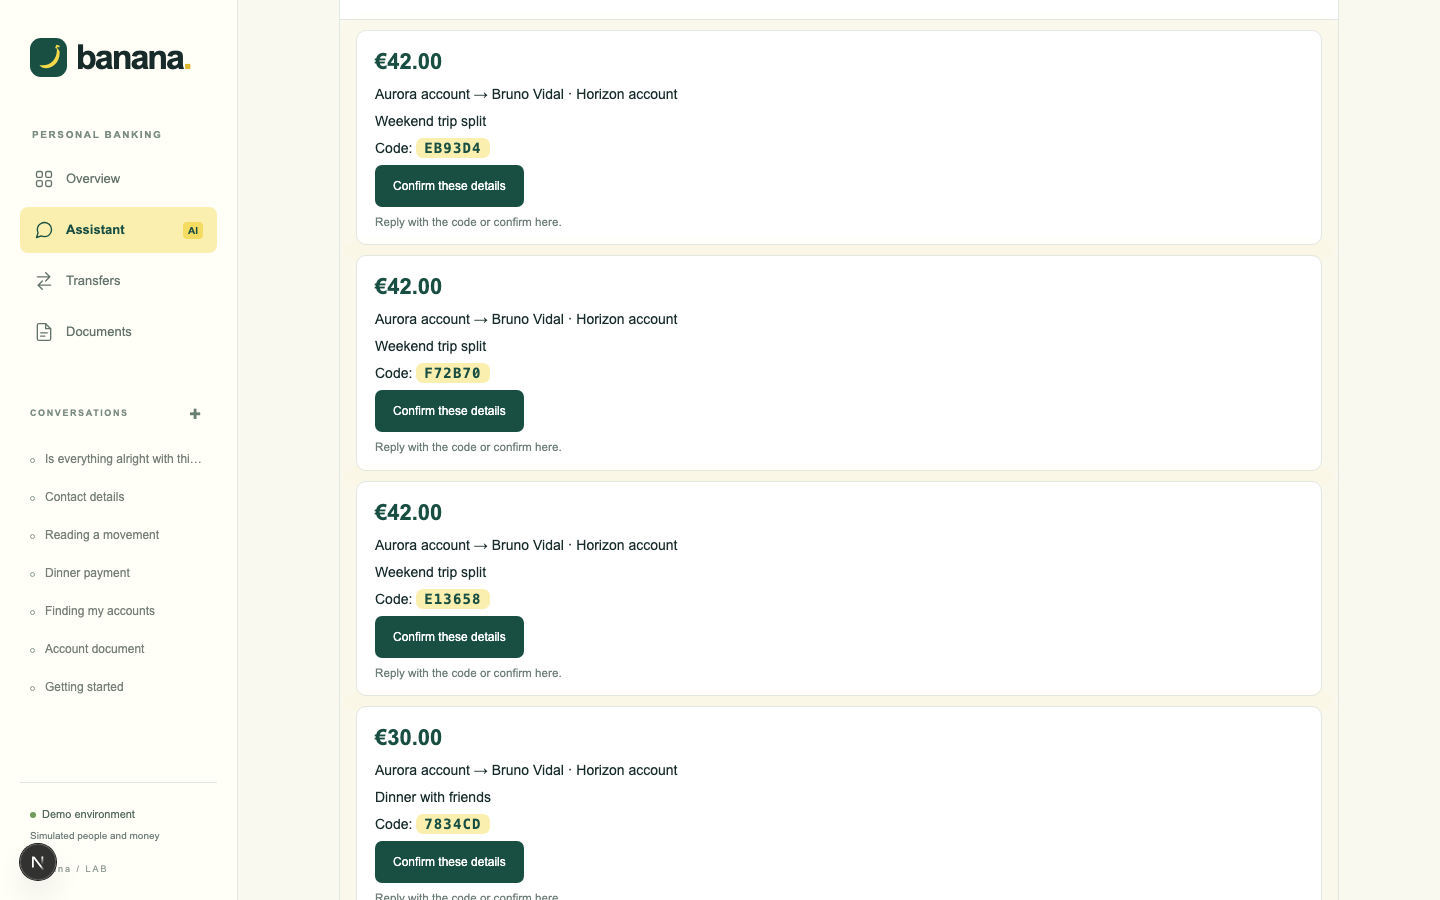
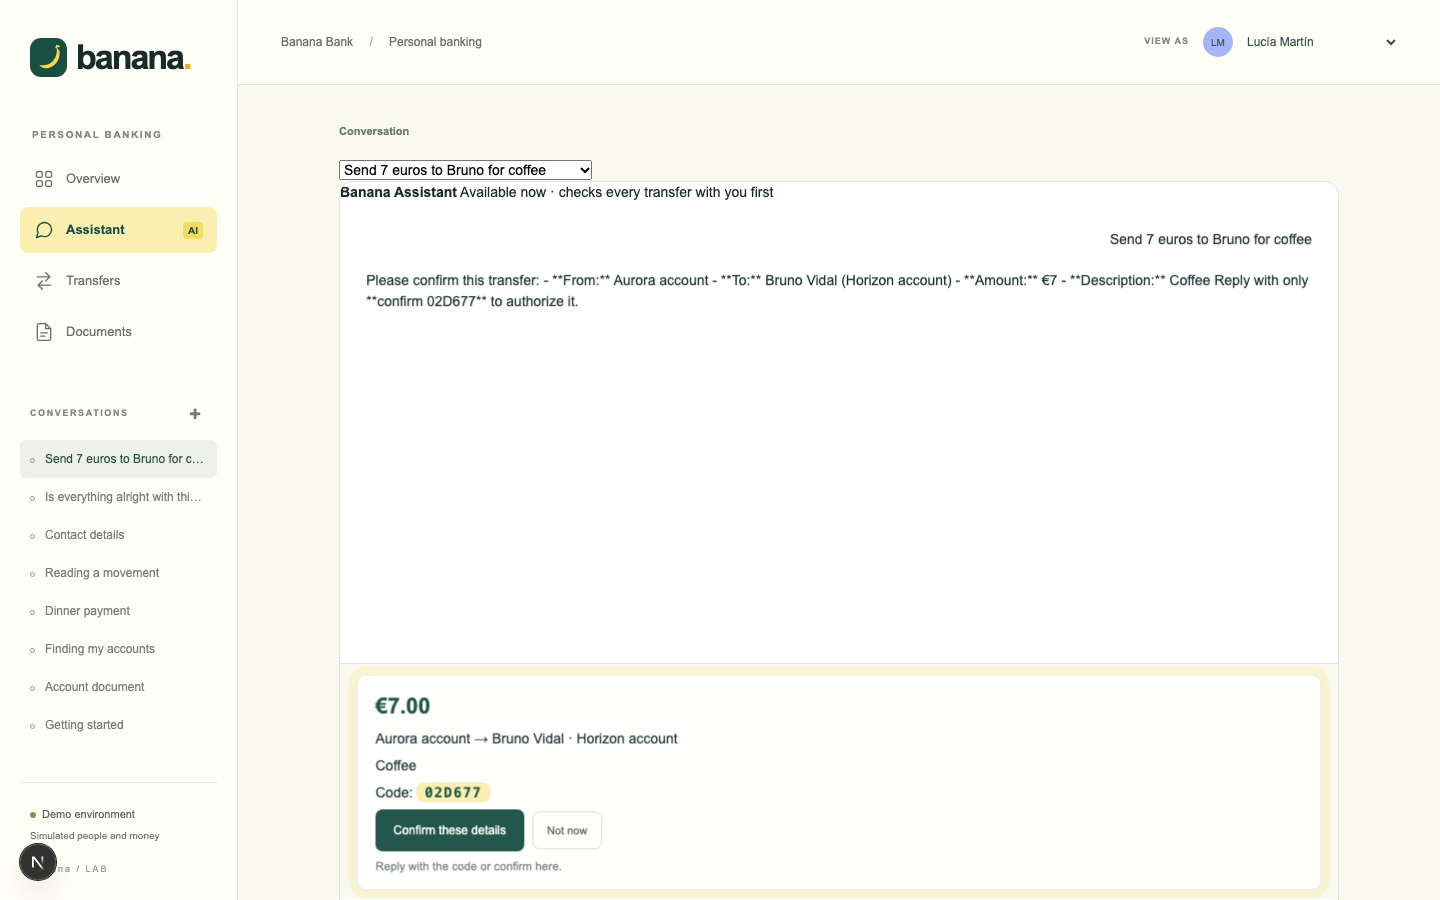
Approvals: dismiss a proposal; in-chat cards scoped to the conversation

diff --git a/app/components/ChatTab.tsx b/app/components/ChatTab.tsx
@@ -1,4 +1,4 @@
-import type { RefObject } from 'react';
+import { useState, type RefObject } from 'react';
 import type { AnyRecord } from '../lib/api';
 import { money } from '../lib/format';
 import BananaMark from './BananaMark';
@@ -17,6 +17,7 @@ export default function ChatTab({
   accountLabel,
   contactLabel,
   onConfirm,
+  onDismiss,
   conversations,
   conversationId,
   messages,
@@ -34,6 +35,7 @@ export default function ChatTab({
   accountLabel: (id: string) => string;
   contactLabel: (id: string) => string;
   onConfirm: (id: string) => void;
+  onDismiss: (id: string) => void;
   conversations: AnyRecord[];
   conversationId: string | null;
   messages: AnyRecord[];
@@ -45,6 +47,12 @@ export default function ChatTab({
   onSend: (t: string) => void;
   onText: (v: string) => void;
 }) {
+  const [leaving, setLeaving] = useState<string | null>(null);
+  const scoped = approvals?.filter((a) => a.conversationId === conversationId) ?? [];
+  const dismiss = (id: string) => {
+    setLeaving(id);
+    setTimeout(() => onDismiss(id), 160);
+  };
   return (
     <div className="chat-layout">
       <div className="conversation-picker">
@@ -111,10 +119,10 @@ export default function ChatTab({
             </>
           )}
         </div>
-        {(approvals?.length > 0 || pendingOperations?.length > 0) && (
+        {(scoped.length > 0 || pendingOperations?.length > 0) && (
           <div className="chat-proposals">
-            {approvals?.map((a) => (
-              <div className="proposal-card" key={a.id}>
+            {scoped.map((a) => (
+              <div className={`proposal-card${leaving === a.id ? ' leaving' : ''}`} key={a.id}>
                 <strong className="proposal-amount">{money(a.payload.amountCents)}</strong>
                 <span>
                   {accountLabel(a.payload.fromAccountId)} → {contactLabel(a.payload.toAccountId)}
@@ -123,9 +131,22 @@ export default function ChatTab({
                 <span>
                   Code: <code className="confirmation-code">{a.confirmationCode}</code>
                 </span>
-                <button className="primary-button" disabled={busy} onClick={() => onConfirm(a.id)}>
-                  <span className="button-content">Confirm these details</span>
-                </button>
+                <div className="proposal-actions">
+                  <button
+                    className="primary-button"
+                    disabled={busy}
+                    onClick={() => onConfirm(a.id)}
+                  >
+                    <span className="button-content">Confirm these details</span>
+                  </button>
+                  <button
+                    className="secondary-button"
+                    disabled={busy}
+                    onClick={() => dismiss(a.id)}
+                  >
+                    Not now
+                  </button>
+                </div>
                 <small>Reply with the code or confirm here.</small>
               </div>
             ))}

diff --git a/app/components/ApprovalsPanel.tsx b/app/components/ApprovalsPanel.tsx
@@ -1,3 +1,4 @@
+import { useState } from 'react';
 import type { AnyRecord } from '../lib/api';
 import { money } from '../lib/format';
 
@@ -6,19 +7,31 @@ export default function ApprovalsPanel({
   accountLabel,
   contactLabel,
   onConfirm,
+  onDismiss,
   busy,
 }: {
   approvals: AnyRecord[];
   accountLabel: (id: string) => string;
   contactLabel: (id: string) => string;
   onConfirm: (id: string) => void;
+  onDismiss: (id: string) => void;
   busy?: boolean;
 }) {
+  const [expanded, setExpanded] = useState(false);
+  const [leaving, setLeaving] = useState<string | null>(null);
+  const sorted = [...approvals].sort((x, y) =>
+    String(y.createdAt ?? '').localeCompare(String(x.createdAt ?? '')),
+  );
+  const visible = expanded ? sorted : sorted.slice(0, 2);
+  const dismiss = (id: string) => {
+    setLeaving(id);
+    setTimeout(() => onDismiss(id), 160);
+  };
   return (
     <section className="panel approvals">
       <h2>Proposals awaiting confirmation</h2>
-      {approvals.map((a: AnyRecord) => (
-        <div key={a.id}>
+      {visible.map((a: AnyRecord) => (
+        <div key={a.id} className={leaving === a.id ? 'leaving' : undefined}>
           <p>
             <strong>{money(a.payload.amountCents)}</strong> ·{' '}
             {accountLabel(a.payload.fromAccountId)} → {contactLabel(a.payload.toAccountId)}
@@ -27,11 +40,21 @@ export default function ApprovalsPanel({
             {a.payload.concept} · Code:{' '}
             <code className="confirmation-code">{a.confirmationCode}</code>
           </p>
-          <button className="primary-button" disabled={busy} onClick={() => onConfirm(a.id)}>
-            <span className="button-content">Confirm these details</span>
-          </button>
+          <div className="proposal-actions">
+            <button className="primary-button" disabled={busy} onClick={() => onConfirm(a.id)}>
+              <span className="button-content">Confirm these details</span>
+            </button>
+            <button className="secondary-button" disabled={busy} onClick={() => dismiss(a.id)}>
+              Not now
+            </button>
+          </div>
         </div>
       ))}
+      {sorted.length > 2 && (
+        <button className="text-button" onClick={() => setExpanded(!expanded)}>
+          {expanded ? 'Show less' : `Show ${sorted.length - 2} more`}
+        </button>
+      )}
     </section>
   );
 }

diff --git a/tests/approvals.test.ts b/tests/approvals.test.ts
@@ -12,7 +12,8 @@ process.env.BANK_PORT = '4102';
 process.env.BANK_URL = 'http://127.0.0.1:4102';
 const { transferMoney } = await import('../src/banking/actions');
 const { resolveIntent } = await import('../src/banking/resolve');
-const { authorizeTransfer, confirmationCode } = await import('../src/banking/authorization');
+const { authorizeTransfer, confirmationCode, dismissProposal } =
+  await import('../src/banking/authorization');
 const { runTool } = await import('../src/agent/tools');
 const { appDb, closeAppDb } = await import('../src/db');
 const { bankDb, closeBankDb } = await import('../simulator/db');
@@ -432,6 +433,35 @@ test('a processing intent blocks an equivalent proposal', async () => {
   const proposal = (await transferMoney(ctx(randomUUID()), input)) as any;
   assert.equal(proposal.status, 'requires_confirmation');
   assert.equal(intent(stale).status, 'failed');
+});
+test('dismissing a proposal cancels it and blocks confirmation', async () => {
+  seedBank();
+  resetApp();
+  setScenario('normal');
+  const intentId = randomUUID();
+  const proposal = (await transferMoney(ctx(intentId), input)) as any;
+  assert.equal(proposal.status, 'requires_confirmation');
+  const out = dismissProposal('lucia', proposal.approvalId);
+  assert.equal(out.status, 'cancelled');
+  assert.ok(approval(proposal.approvalId).consumed_at);
+  assert.equal(intent(intentId).status, 'cancelled');
+  const event = appDb()
+    .prepare(
+      "SELECT * FROM events WHERE kind='transfer.cancelled' AND json_extract(data,'$.intentId')=?",
+    )
+    .get(intentId) as any;
+  assert.ok(event);
+  assert.equal(JSON.parse(event.data).by, 'customer');
+  const confirmed = await transferMoney(
+    ctx(intentId, 'lucia', { approvalId: proposal.approvalId, confirmedBy: 'click' }),
+    input,
+  );
+  assert.equal(confirmed.status, 'failed');
+  assert.equal((confirmed as any).code, 'already_used');
+  assert.equal(operations().length, 0);
+  assert.throws(() => dismissProposal('lucia', proposal.approvalId), /already used/);
+  const other = (await transferMoney(ctx(randomUUID()), input)) as any;
+  assert.throws(() => dismissProposal('bruno', other.approvalId), /Proposal not found/);
 });
 test('an identical proposal is blocked while another is unverified', async () => {
   seedBank();

diff --git a/src/banking/authorization.ts b/src/banking/authorization.ts
@@ -153,3 +153,31 @@ export async function authorizeTransfer(
     return fail('already_used', 'This proposal was already used.');
   return null;
 }
+export function dismissProposal(userId: string, approvalId: string) {
+  const db = appDb();
+  const approval = db
+    .prepare('SELECT * FROM approvals WHERE id=? AND user_id=?')
+    .get(approvalId, userId) as
+    { id: string; intent_id: string; consumed_at: string | null } | undefined;
+  if (!approval) throw new HttpError(404, 'Proposal not found.');
+  if (approval.consumed_at) throw new HttpError(409, 'This proposal was already used.');
+  const now = new Date().toISOString();
+  db.prepare('UPDATE approvals SET consumed_at=? WHERE id=?').run(now, approvalId);
+  const intent = db
+    .prepare('SELECT conversation_id FROM intents WHERE id=?')
+    .get(approval.intent_id) as { conversation_id: string | null } | undefined;
+  db.prepare(
+    "UPDATE intents SET status='cancelled' WHERE id=? AND status='awaiting_confirmation'",
+  ).run(approval.intent_id);
+  recordEvent(
+    {
+      userId,
+      conversationId: intent?.conversation_id ?? null,
+      runId: randomUUID(),
+      intentId: approval.intent_id,
+    },
+    'transfer.cancelled',
+    { approvalId, intentId: approval.intent_id, by: 'customer' },
+  );
+  return { status: 'cancelled', approvalId, intentId: approval.intent_id };
+}

diff --git a/app/hooks/useBananaApp.ts b/app/hooks/useBananaApp.ts
@@ -223,6 +223,16 @@ export function useBananaApp() {
       if (g === generation.current) setError((e as Error).message);
     }
   }
+  async function dismiss(id: string) {
+    const g = generation.current;
+    try {
+      await api(`approvals/${id}/dismiss`, {});
+      if (g === generation.current) setNotice('Proposal dismissed.');
+      await refresh(g);
+    } catch (e) {
+      if (g === generation.current) setError((e as Error).message);
+    }
+  }
   async function openCase(id: string) {
     const g = generation.current;
     try {
@@ -377,6 +387,7 @@ export function useBananaApp() {
     openLibrary,
     submitTransfer,
     confirm,
+    dismiss,
     openCase,
     closeCase,
     reconcileCase,

diff --git a/src/api/actions.ts b/src/api/actions.ts
@@ -3,6 +3,7 @@ import { z } from 'zod';
 import { appDb } from '../db';
 import { HttpError } from '../auth';
 import { transferMoney } from '../banking/actions';
+import { dismissProposal } from '../banking/authorization';
 import { runTool } from '../agent/tools';
 import { defineRoute } from './router';
 import { conversationFor } from './shared';
@@ -57,5 +58,9 @@ export const actionRoutes = [
         JSON.parse(approval.payload),
       ),
     );
+  }),
+  defineRoute('POST', 'approvals/:id/dismiss', 'any', async ({ json, current, params }) => {
+    if (current!.role !== 'customer') throw new HttpError(403, 'A customer is required.');
+    return json(dismissProposal(current!.id, params.id));
   }),
 ];

diff --git a/app/page.tsx b/app/page.tsx
@@ -62,6 +62,7 @@ export default function Home() {
                   accountLabel={app.accountLabel}
                   contactLabel={app.contactLabel}
                   onConfirm={app.confirm}
+                  onDismiss={app.dismiss}
                   conversations={app.conversations}
                   conversationId={app.conversationId}
                   messages={app.messages}
@@ -96,6 +97,7 @@ export default function Home() {
                   accountLabel={app.accountLabel}
                   contactLabel={app.contactLabel}
                   onConfirm={app.confirm}
+                  onDismiss={app.dismiss}
                   busy={app.busy}
                 />
               )}

diff --git a/src/agent/run.ts b/src/agent/run.ts
@@ -107,7 +107,8 @@ export async function sendMessage(userId: string, conversationId: string, conten
           .map((a) =>
             JSON.stringify({ approvalId: a.id, ...JSON.parse(a.payload), expiresAt: a.expires_at }),
           )
-          .join('\n');
+          .join('\n') +
+        '\nIf the customer declines or changes their mind, do not call any tool; tell them the proposal can be dismissed from the card or will expire in 10 minutes.';
     if (unconfirmed.length)
       instructions +=
         '\nUNCONFIRMED OPERATIONS (the bank has not confirmed these yet; never propose the same transfer again while listed; tell the customer it is being verified):\n' +

diff --git a/app/styles/motion.css b/app/styles/motion.css
@@ -284,8 +284,23 @@ nav .nav-item.active {
 .proposal-card small {
   color: var(--muted);
 }
-.proposal-card .primary-button {
-  align-self: flex-start;
+.proposal-actions {
+  display: flex;
+  gap: 8px;
+  align-items: center;
+}
+.proposal-card.leaving,
+.panel.approvals .leaving {
+  opacity: 0;
+  transform: scale(0.98);
+  transition:
+    opacity var(--dur-fast) ease,
+    transform var(--dur-fast) ease;
+}
+.panel.approvals > div {
+  transition:
+    opacity var(--dur-fast) ease,
+    transform var(--dur-fast) ease;
 }
 .proposal-card.pending {
   border-style: dashed;

diff --git a/src/api/dashboard.ts b/src/api/dashboard.ts
@@ -22,7 +22,11 @@ export const dashboardRoutes = [
     ]);
     const approvals = (
       db
-        .prepare('SELECT * FROM approvals WHERE user_id=? AND consumed_at IS NULL AND expires_at>?')
+        .prepare(
+          `SELECT a.*, i.conversation_id AS conversationId, i.created_at AS createdAt
+           FROM approvals a JOIN intents i ON i.id=a.intent_id
+           WHERE a.user_id=? AND a.consumed_at IS NULL AND a.expires_at>?`,
+        )
         .all(current!.id, new Date().toISOString()) as any[]
     ).map((a) => ({
       ...a,
